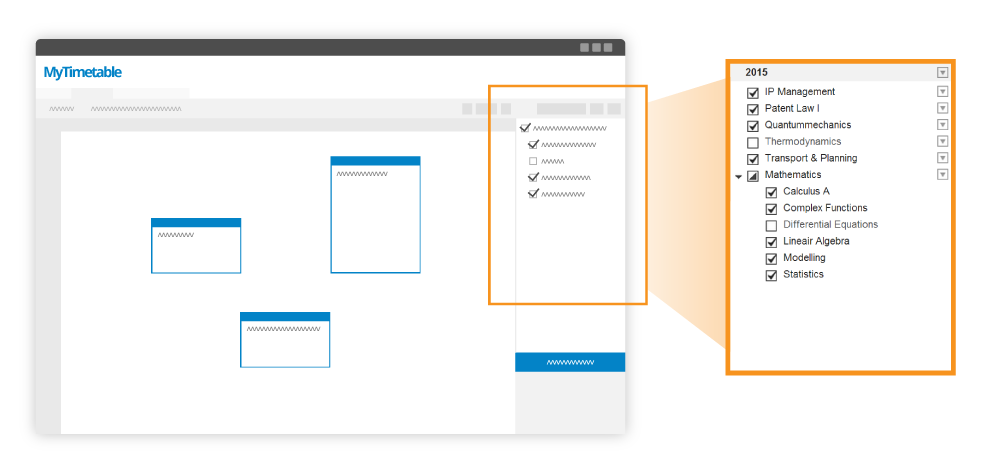
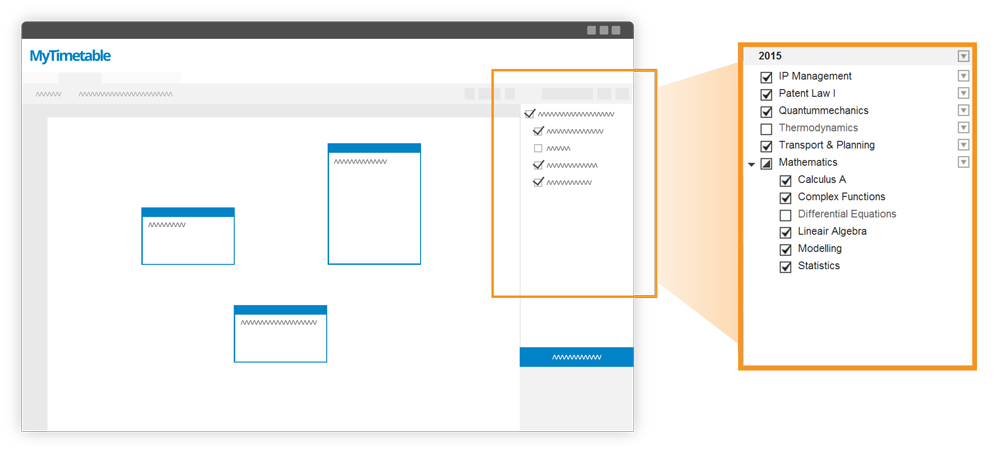
Features images.

diff --git a/content/features.html b/content/features.html
@@ -15,7 +15,7 @@ title: Features
 <section class="greybg">
     <div class="container">
         <div class="row">
-            <div class="col-md-4 col-md-offset-1">
+            <div class="col-md-4">
                 <h3>Personal timetables</h3>
 
                 <p>All users have their own personal profile, which enables them to fully personalise their timetable. Depending on the wishes of the
@@ -24,7 +24,7 @@ title: Features
                 <p>MyTimetable can also be integrated with your student information system. This way, the courses students are enroled in are automatically
                     added to their profile.</p>
             </div>
-            <div class="col-md-6 col-md-offset-1">
+            <div class="col-md-7 col-md-offset-1">
                 <img src="/assets/img/features/personal.png" width="100%" />
             </div>
         </div>
@@ -52,13 +52,13 @@ title: Features
 <section class="greybg">
     <div class="container">
         <div class="row">
-            <div class="col-md-4 col-md-offset-1">
+            <div class="col-md-4">
                 <h3>Room availability view</h3>
 
                 <p>Porters and building managers can use the availability view to quickly locate unoccupied locations in a building.</p>
             </div>
-            <div class="col-md-4 col-md-offset-2">
-                Plaatje
+            <div class="col-md-7 col-md-offset-1">
+                <img src="/assets/img/features/availability-view.png" width="100%" />
             </div>
         </div>
     </div>
